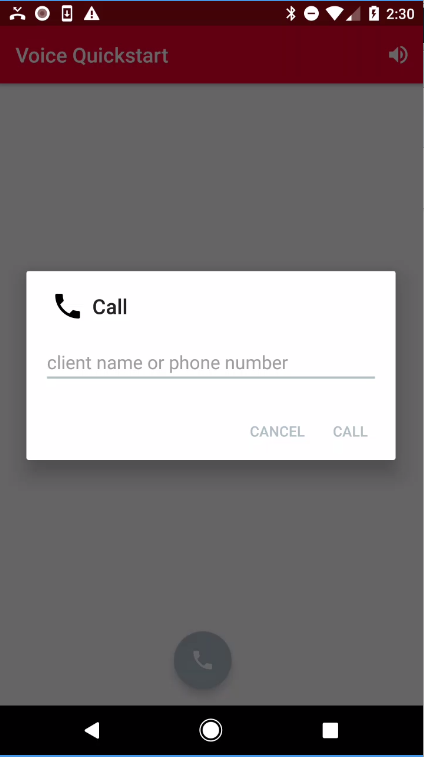
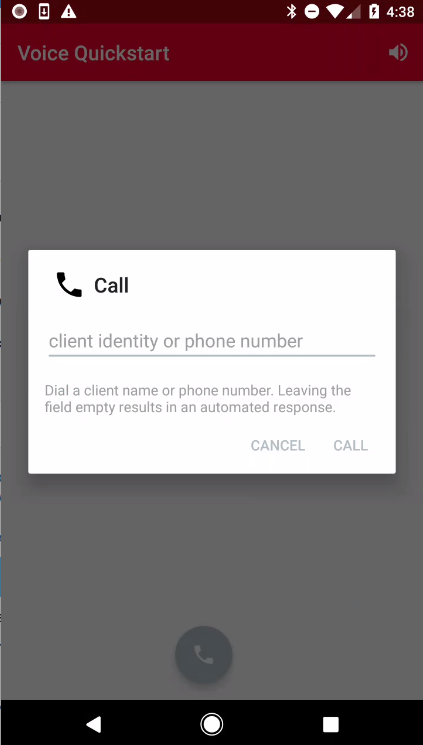
Added TextView in the call dialog to include details. Updated README and the screenshots.

diff --git a/app/src/main/java/com/twilio/voice/quickstart/VoiceActivity.java b/app/src/main/java/com/twilio/voice/quickstart/VoiceActivity.java
@@ -31,7 +31,6 @@ import android.view.MenuItem;
 import android.view.View;
 import android.widget.Chronometer;
 import android.widget.EditText;
-
 import com.google.firebase.iid.FirebaseInstanceId;
 import com.twilio.voice.Call;
 import com.twilio.voice.CallException;
@@ -41,7 +40,6 @@ import com.twilio.voice.RegistrationListener;
 import com.twilio.voice.Voice;
 
 import java.util.HashMap;
-import java.util.Map;
 
 public class VoiceActivity extends AppCompatActivity {
 

diff --git a/README.md b/README.md
@@ -84,12 +84,11 @@ Run the quickstart app on an Android device
 
 <img height="500px" src="images/quickstart/voice_activity.png">"
 
-
-Press the call button to connect to Twilio.
+Press the call button to open the call dialog.
 
 <img height="500px" src="images/quickstart/voice_make_call_dialog.png">
 
-Press the call button to start a call. You will hear the congratulatory message.
+Leave the dialog text field empty and press the call button to start a call. You will hear the congratulatory message. Dialing another client or a number is described in steps 10 and 11.
 
 <img height="500px" src="images/quickstart/voice_make_call.png">
 
@@ -127,7 +126,7 @@ Put the `PUSH_CREDENTIAL_SID` configuration info into your application server by
     PUSH_CREDENTIAL_SID = 'CR***'
     APP_SID = 'AP***'
 
-Once you’ve done that, restart the server so it uses the new configuration info. Now it's time to test. Hit your application server's `placeCall` endpoint. This will trigger a Twilio REST API request that will make an inbound call to your mobile app. You will receive a incoming call notification.
+Once you’ve done that, restart the server so it uses the new configuration info. Now it's time to test. Use your browser to initiate an incoming call by navigating to the "localhost:5000/placeCall" . This will trigger a Twilio REST API request that will make an inbound call to your mobile app. You will receive an incoming call notification.
 
 <img height="500px" src="images/quickstart/incoming_notification.png">"
 
@@ -139,11 +138,11 @@ Once your app accepts the call, you should hear a congratulatory message.
 
 ### <a name="bullet10"></a>10. Make client to client call
 
-To make client to client calls, follow step 6 through step 8 to run the application in two devices. Press the call button to connect to Twilio.  
+To make client to client calls, you need the application running on two devices. To run the application on an additional device, make sure you use a different identity in your access token when registering the new device. Press the call button to open the call dialog.
 
 <img height="500px" src="images/quickstart/voice_make_call_dialog.png">
 
-Enter a client name and press the call button to place a call.
+Enter the client identity of the newly registered device to initiate a client to client call from the first device.
 
 <img height="500px" src="images/quickstart/make_call_to_client.png">
 
@@ -151,9 +150,9 @@ Enter a client name and press the call button to place a call.
 
 A verified phone number is one that you can use as your Caller ID when making outbound calls with Twilio. This number has not been ported into Twilio and you do not pay Twilio for this phone number.
 
-To make client to number calls, first get a valid Twilio number to your account via https://www.twilio.com/console/phone-numbers/verified. Update `server.py` and replace `CALLER_NUMBER` with the verified number.  
+To make client to number calls, first get a valid Twilio number to your account via https://www.twilio.com/console/phone-numbers/verified. Update `server.py` and replace `CALLER_NUMBER` with the verified number. Restart the server so it uses the new value.
 
-Follow step 6 through step 8 to run the application in a device. Press the call button to connect to Twilio.
+Press the call button to open the call dialog.
 
 <img height="500px" src="images/quickstart/voice_make_call_dialog.png">
 
